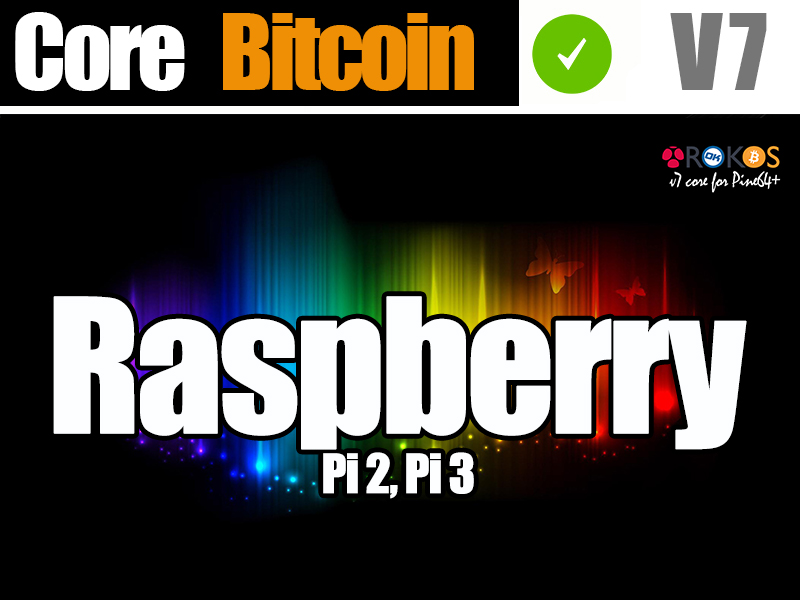
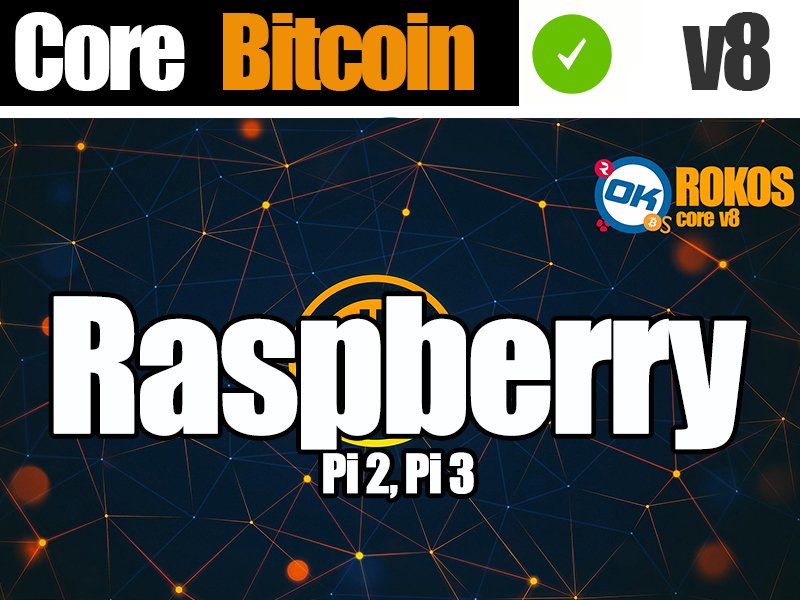
getting ready v8

diff --git a/core.html b/core.html
@@ -53,7 +53,7 @@
 						     <li class="dropdown">
                             <a href="#" class="dropdown-toggle " data-toggle="dropdown" data-hover="dropdown" data-delay="0" data-close-others="false">Core Info <b class=" icon-angle-down"></b></a>
                             <ul class="dropdown-menu">
-                                <li><a href="core.html">ROKOS Core version</a></li> 
+                                <li><a href="core.html">Latest Core version</a></li> 
 								 
                                 <li><a href="core-tech.html">Rokos Core Tech</a></li>
 								<!-- <li><a href="#">Tutorials</a></li> -->
@@ -92,19 +92,29 @@
 	<section id="content">
 	<div class="container">
 
-	<p>ROKOS v7 "Core" for Raspberry Pi 2, 3, and Pine64+ IoT Devices Released. Full Bitcoin OK Clients, nodes and much more. Faster, Easier, Stronger.<br /><br /></p>
-<div align="center"><img class="userimg" src="http://i.imgur.com/pNaI09x.png" alt="" border="0" /></div>
-<p>&nbsp;</p>
-<div align="center"><strong><span style="font-size: 15pt !important; line-height: 1.3em;">Just Download and Burn to Start your own OK and/or Bitcoin Full nodes and/or open your OpenBazaar store</span></strong><br /><br /><strong><span style="font-size: 15pt !important; line-height: 1.3em;">Cryptocurrency and the Internet of Things</span></strong><br /><strong>Core:</strong> Debian based OS with integrated <strong>Bitcoin OK</strong> Clients, Nodes and Open Bazaar server ready for use.</div>
-<p><br />We've seen new services selling "stake miners" or pi "fullnodes" for different amounts of bitcoin ranging from 200 USD to 982 USD, we support the new technology and uses for cryptocurrencies in the Raspberry Pi , Bananapi, Pine64+ and IoT environments, hence we came up with a <strong>Free</strong> solution for every IoT enthusiast, developer, user, service that want to use their IoT devices with Bitcoin and OK, or that would like to turn their Pi into a Staking device, It already integrates a fully functional Bitcoin Client and full node as well to provide the users with the best and easier Out of the Box experience, and to be the perfect toolbox for developers.<br /><br /></p>
-<div align="center"><span style="font-size: 14pt !important; line-height: 1.3em;"><strong>v7 "Core" Released</strong> </span></div>
-<p><br />The First OS image release that merges the full power of Raspberry Pi zero, 2, 3, Banana Pi PRO, Pine64+ &amp; IoT Devices with Bitcoin OK and Cryptocurrencies: <br />- <strong>ROKOS v7 "core"</strong> comes with integrated OK and Bitcoin Client / node and OpenBazaar server.<br /><br /></p>
-<div align="center"><img class="userimg" src="http://i.imgur.com/M3Voqgi.png" alt="" border="0" /><img class="userimg" src="http://i.imgur.com/Tyfl3cn.png" alt="" border="0" /><br /><img class="userimg" src="http://i.imgur.com/Us1P3pl.png" alt="" border="0" /><br /><br />Distribution aimed for everyone, from new IoT users to IoT Developers, Ease of use Out of the Box.<br /><strong>Download &amp; Burn, Ready for use.</strong><br /><br /></div>
-<p><br /><strong>Some of the ROKOS core features are: </strong><br /><strong>v7 "core" Release (Pine64+, Raspberry Pi 2, 3)</strong> <br />- Full burnable OS Compatible with the <a class="ul" href="https://www.raspberrypi.org">Raspberry Pi</a>, <a class="ul" href="https://www.pine64.org">Pine64+</a>, BananaPi and IoT devices.<br />- Full System / Programs Upgrade.<br />- Full Design Upgrade.<br />- Chrome/Firefox browser added. (depends on version)<br />- Autolog.<br />- Debian/Xubuntu/Linux based.<br />- Java Dev Tools.<br />- Easier to Use mod Update.<br />- Security and Optimization Update.<br />- Includes Qt and complete set of Dev tools (For developers)<br />- Works with other cryptocurrencies.<br />- 1024 mb swap mod.<br />- Updated Bitcoin client / node v0.13.1 with full functionality.<br />- Updated OKCash client / node v4.0.0.3 with full Stake functionality, private messages.<br />- Updated OpenBazaar server.<br />- Custom Login and Wallpapers.<br />- BTC and OK nodes at /usr/local/bin/<br />- Easy Clients / Nodes Upgrades.<br />- Custom OK-Scripts to ease the user experience.<br />- Direct access to the Clients Via: Task bar and Menu &gt; Blockchain.<br /><br /><strong>Requirements: </strong><br />ROKOS v7 "core" for Pine64+ :<br />- <a class="ul" href="https://www.pine64.org">Pine64+</a> - ready for download<br />- <a class="ul" href="https://www.raspberrypi.org">Raspberry Pi 2, 3.</a> - ready for download<br />- <a class="ul" href="http://www.lemaker.org/">Banana Pi</a> PRO - coming update<br /><br />- Min 16gb SD card and an External device (usb / hdd / ssd). To sync the BTC chain on the external device instead of the SD card, BTC chain alone is around 60gb.<br /><br /><strong>ROKOS constantly evolves and releases new Versions based on:</strong><br />- Security, Chain, Technology and Design updates.<br />- Ease of access and use for the final users.<br />- More Cryptocurrencies are integrated for an <strong>Out of the Box</strong> experience in a different version called ROKOS FLAVORS.<br />- More wallets, programs or features, based on users/communities/developers feedback, support and/or cross collaborations.<br /><br /></p>
-<div align="center"><strong>ROKOS v7 "core" for Pine64+ screen shots</strong><br /><img class="userimg" src="http://i.imgur.com/OrhPqYG.png" alt="" border="0" /></div>
-<br />
-<div align="center"><strong>ROKOS v7 "core" for Raspberry Pi 2, 3 screen shots</strong><br /><img class="userimg" src="http://i.imgur.com/RqniEgu.jpg" alt="" border="0" /></div>
 	
+<div align="center"><img class="userimg" src="img/rokos.png" alt="" border="0" /></div>
+<p>&nbsp;</p>
+<div align="center"><strong><span style="font-size: 15pt !important; line-height: 1.3em;">Just Download and Burn to Start your own OK and Bitcoin Full node</span></strong><br /><br />
+ <strong><span style="font-size: 15pt !important; line-height: 1.3em;">Cryptocurrency and the Internet of Things</span></strong><br />
+ <strong>Core:</strong> Debian based OS with integrated <strong>Bitcoin OK</strong> Clients, Nodes and Open Bazaar server ready for use.<br /><br />
+  <strong>ROKOS v8 "Core" </strong>for Raspberry Pi 2, 3, and IoT Devices. <br />Full Bitcoin OK Clients, nodes and much more. Faster, Easier, Stronger.</div>
+<p><br />We support the new technology and uses for cryptocurrencies in the Raspberry Pi , Bananapi, Pine64+ and IoT environments, hence we came up with a <strong>Free</strong> solution for every IoT enthusiast, developer, user, service that want to use their IoT devices with Bitcoin and OK, or that would like to turn their Pi into a Staking device, It already integrates a fully functional Bitcoin Client and full node as well to provide the users with the best and easier Out of the Box experience, and to be the perfect toolbox for developers.<br /><br /></p>
+<div align="center"><span style="font-size: 14pt !important; line-height: 1.3em;"><strong>v8 "Core"</strong> </span></div>
+<p><br />The First OS image release that merges the full power of Raspberry Pi zero, 2, 3, Banana Pi PRO, Pine64+ &amp; IoT Devices with Bitcoin OK and Cryptocurrencies: <br />
+- <strong>ROKOS v8 "core"</strong> comes with integrated OK and Bitcoin Client / node, OpenBazaar server, Dev tools, cgminer deps, etc.<br /><br /></p>
+<div align="center"><img class="userimg" src="img/raspberrypi.png" alt="" border="0" /><br /><br />
+Distribution aimed for everyone, from new IoT users to IoT Developers, Ease of use Out of the Box.<br />
+<strong>Download &amp; Burn, Ready for use.</strong><br /><br /></div>
+<br /><strong>Requirements: </strong><br />
+ROKOS v8 "core":<br />
+- <a class="ul" href="https://www.raspberrypi.org" target="_blank">Raspberry Pi 2, 3.</a> - ready for <a href="https://rokos.space/downloads.html">download</a><br />
+- <a class="ul" href="https://www.pine64.org" target="_blank">Pine64+</a> - coming update<br />
+- <a class="ul" href="http://www.lemaker.org/" target="_blank">Banana Pi PRO</a> - coming update<br /><br />
+- Min 16gb SD card and an External device (usb / hdd / ssd). To sync the BTC chain on the external device instead of the SD card, BTC chain alone is around 100gb.<br /><br /><br /></p>
+
+<div align="center"><strong>ROKOS v8 "core" for Raspberry Pi 2, 3 screen shots</strong><br /><img class="userimg" src="http://i.imgur.com/KzDvTDG.jpg" alt="" border="0" />
+<br /><br /><img class="userimg" src="http://i.imgur.com/5BkrGff.png" alt="" border="0" /></div>
 <p>&nbsp;</p>
 	</section>
 	<footer>
@@ -113,7 +123,7 @@
 			<div class="col-lg-3">
 				<div class="widget">
 					<h5 class="widgetheading">Join the OK Bitcoin community</h5>
-					<br><a href="https://discord.gg/grvpc8c"> <img alt="Logo" src="https://discordapp.com/api/guilds/213747404745211904/widget.png?style=banner2" width="250px"></a>
+					<br><a href="https://discord.io/bitcoin"> <img alt="Logo" src="https://discordapp.com/api/guilds/213747404745211904/widget.png?style=banner2" width="250px"></a>
 					
 				</div>
 			</div>

diff --git a/core-tech.html b/core-tech.html
@@ -53,7 +53,7 @@
 						<li class="dropdown">
                             <a href="#" class="dropdown-toggle " data-toggle="dropdown" data-hover="dropdown" data-delay="0" data-close-others="false">Core Info <b class=" icon-angle-down"></b></a>
                             <ul class="dropdown-menu">
-                                <li><a href="core.html">ROKOS Core version</a></li> 
+                                <li><a href="core.html">Latest Core version</a></li> 
 								 
                                 <li><a href="core-tech.html">Rokos Core Tech</a></li>
 								<!-- <li><a href="#">Tutorials</a></li> -->
@@ -90,7 +90,7 @@
 	</section>
 	<section id="content">
 	<center>
-	<table width="90%">
+	<table width="60%">
 	<tr><td width="20%">
 	<center>  <a href="http://bitcoin.org" target="new"> <img src="img/coins/bitcoin.jpg" alt=""  /><br /><b>Bitcoin</b></center>
 	</td><td width="20%">
@@ -99,8 +99,6 @@
 	<center> <a href="https://openbazaar.org/" target="new"> <img src="img/coins/openbazaar.png" alt="" /><br /><b>OpenBazaar</b></center>
 	</td><td width="20%">
 	<center> <a href="http://debian.org/" target="new"> <img src="img/coins/debian.png" alt="" /><br /><b>Debian</b></center>
-	</td><td width="20%">
-	<center> <a href="https://nodejs.org/" target="new"> <img src="img/coins/nodejs.png" alt="" /><br /><b>Node js</b></center>
 	</td></tr><tr height="30px"></tr><tr><td width="20%">
 	<center> <a href="http://raspberrypi.org/" target="new"> <img src="img/coins/raspberrypi.png" alt="" /><br /><b>Raspberry Pi</b></center>
 	</td><td width="20%">
@@ -109,9 +107,12 @@
 	<center> <a href="https://en.wikipedia.org/wiki/Banana_Pi#Banana_Pi_Pro" target="new"> <img src="img/coins/bananapi.png" alt="" /><br /><b>Banana Pi Pro</b></center>
 	 </td><td width="20%">
 	<center> <a href="http://www.linux.org/" target="new"> <img src="img/coins/linux.png" alt="" /><br /><b>Linux</b></center>
-	</td><td width="20%">
-	<center> <a href="http://xubuntu.org/" target="new"> <img src="img/coins/xubuntu.png" alt="" /><br /><b>xubuntu</b></center>
 	</td></tr><tr height="30px"></tr><tr><td width="20%">
+	<center> <a href="https://nodejs.org/" target="new"> <img src="img/coins/nodejs.png" alt="" /><br /><b>Node js</b></center>
+	</td>
+	<td width="20%">
+	<center> <a href="http://xubuntu.org/" target="new"> <img src="img/coins/xubuntu.png" alt="" /><br /><b>xubuntu</b></center>
+	</td>
 	<!-- <center> <a href="http://metalmusiccoin.pw/" target="new">  <img src="img/coins/metalcoin.png" alt="" /><br /><b>Metalcoin</b></center>
 	</td><td width="20%">
 	<center> <a href="https://bitcointalk.org/index.php?topic=1366963.0" target="new">  <img src="img/coins/mojo.png" alt="" /><br /><b>Mojo</b></center>
@@ -131,12 +132,40 @@
 	<center> <a href="http://www.expanse.tech/" target="new"> <img src="img/coins/expanse.png" alt="" /><br /><b>Expanse</b>  </center>
 	</td><td width="20%"> -->
 	<center>    </center>
-	</td></tr></table>
+	</tr></table>
+	<table width="55%">
+	<tr><td>
+	<p><br /><strong>Some of the ROKOS core v8 features are: </strong><br />
+	 <br />
+	- Updated <strong>Bitcoin</strong> client / node <strong>v0.14.0</strong> with full functionality.<br />
+	- Updated <strong>OKCash</strong> client / node <strong>v4.0.0.4</strong> with full functionality.<br />
+	- Updated <strong>OpenBazaar</strong> server.<br />
+	- Full burnable OS Compatible with the <a class="ul" href="https://www.raspberrypi.org">Raspberry Pi</a>, <a class="ul" href="https://www.pine64.org">Pine64+</a>, BananaPi and IoT devices.<br />
+	- Full System / Programs Upgrade.<br />
+	- Full Design Upgrade.<br />
+	- Chrome/Firefox browser added. (depends on version)<br />
+	- Autolog.<br />
+	- Debian/Xubuntu/Ubuntu/Raspbian/Linux based. (depends on version)<br />
+	- Java Dev Tools.<br />
+	- Easier to Use mod Update.<br />
+	- Security and Optimization Update.<br />
+	- CGMiner ready. (dependencies included for compilation)<br />
+	- Includes Qt and complete set of tools (For developers)<br />
+	- Works with other cryptocurrencies.<br />
+	- 1024 mb swap mod.<br />
+	- Custom Login and Wallpapers.<br />
+	- BTC and OK nodes at /usr/local/bin/<br />
+	- Easy Clients / Nodes Upgrades.<br />
+	- Custom OK-Scripts to ease the user experience.<br />
+	- Direct access to the Clients Via: Task bar and Menu &gt; Blockchain.<br />
+	</p></td></tr><tr><td>
+	<strong>ROKOS constantly evolves and releases new Versions based on:</strong><br />
+	- Security, Chain, Technology and Design updates.<br />
+	- Ease of access and use for the final users.<br />
+	- More Cryptocurrencies are integrated for an <strong>Out of the Box</strong> experience in a different version called ROKOS <a href="https://rokos-flavors.space" target="_blank">FLAVORS</a>.<br />
+	- More wallets, programs or features, based on users/communities/developers feedback, support and/or cross collaborations.</td></tr></table></center>
 	
 	
-	
-	
-	</center>
 	</section>
 	<footer>
 	<div class="container">
@@ -144,7 +173,7 @@
 			<div class="col-lg-3">
 				<div class="widget">
 					<h5 class="widgetheading">Join the OK Bitcoin community</h5>
-					<br><a href="https://discord.gg/grvpc8c"> <img alt="Logo" src="https://discordapp.com/api/guilds/213747404745211904/widget.png?style=banner2" width="250px"></a>
+					<br><a href="https://discord.io/bitcoin"> <img alt="Logo" src="https://discordapp.com/api/guilds/213747404745211904/widget.png?style=banner2" width="250px"></a>
 					
 				</div>
 			</div>

diff --git a/support.html b/support.html
@@ -53,7 +53,7 @@
 						     <li class="dropdown">
                             <a href="#" class="dropdown-toggle " data-toggle="dropdown" data-hover="dropdown" data-delay="0" data-close-others="false">Core Info <b class=" icon-angle-down"></b></a>
                             <ul class="dropdown-menu">
-                                <li><a href="core.html">ROKOS Core version</a></li> 
+                                <li><a href="core.html">Latest Core version</a></li> 
 								 
                                 <li><a href="core-tech.html">Rokos Core Tech</a></li>
 								<!-- <li><a href="#">Tutorials</a></li> -->
@@ -92,13 +92,21 @@
 	
 	<p>&nbsp;</p>
 	<center><strong>If you need Support you can join the OK Bitcoin communications server at Discord: <br /><br />
-	<a  href="https://discord.gg/grvpc8c">Click here to join the Community!</a>
+	<a  href="https://discord.io/bitcoin">Click here to join the Community!</a>
 	<br /><br />
 	Same way you can raise an issue, give feedback or read the Tutorials at: <br /><br />
 	<a  href="https://github.com/BitcoinFullnode/ROKOS-OK-Bitcoin-Fullnode">Official ROKOS Github</a></strong></center>
 	<br /><div align="center">***********************</div>
     <br />
-		<div align="center"><strong>ROKOS is Released for Free to support Bitcoin OK and the crypto environment adoption</strong><br />If you find this work valuable or if it helped your project and You would like to support feel free to share your donations at<br /><br /><strong>BTC</strong>&nbsp; 15VrDkat5vD4FfycRk3E4e7EgqftzK6tm8<br /><strong>OK</strong>&nbsp; PWZg5F7NurKDNGdckRpQgmShEQhEHmF5W5<br /><br /><br /><strong>Want your Cryptocurrency Client and node included in the next ROKOS "Flavors" release update?</strong><br /><br />1.1 BTC (or OKcash Equivalent) donation to support development<br />Requirement to get added to every future "Flavors" upgrades/releases. (Permanently added to upcoming flavors releases)<br /><br />0.50 BTC (or OKcash Equivalent) donation to support development<br />Requirement to get added only to next "Flavors" upgrade/release. (1 flavors release)<br /><br />1.6 BTC (or OKcash Equivalent) donation to support development <br />Requirement to get an Exclusive version release for your cryptocurrency with your custom cryptocurrency wallpaper and version name.<br /><br />Contact: Oktoshi over <a href="mailto:devteam@okcash.co">devteam[at]okcash.co</a><br /><br />*Donation claims can be done with Bitcoin or Okcash equivalent.<br />*Abandoned coins with non responsive devs get removed from the OS.</div>
+		<div align="center"><strong>ROKOS is Released for Free to support Bitcoin OK and the crypto environment adoption</strong><br />
+		If you find this work valuable or if it helped your project and You would like to support feel free to share your donations at<br /><br />
+		<strong>BTC</strong>&nbsp; 15VrDkat5vD4FfycRk3E4e7EgqftzK6tm8<br /><strong>OK</strong>&nbsp; PWZg5F7NurKDNGdckRpQgmShEQhEHmF5W5<br /><br /><br />
+		<strong>Want your Cryptocurrency Client and node included in the next ROKOS "Flavors" release update?</strong><br /><br />
+		1 BTC (or OKcash Equivalent) donation to support development<br />Requirement to get added to every future "<a href="https://rokos-flavors.space/" target="_blank">Flavors</a>" upgrades/releases. (Permanently added to upcoming flavors releases)<br />
+		<br />0.50 BTC (or OKcash Equivalent) donation to support development<br />Requirement to get added only to next "Flavors" upgrade/release. (1 flavors release)<br /><br />
+		1.5 BTC (or OKcash Equivalent) donation to support development <br />
+		Requirement to get an Exclusive version release for your cryptocurrency with your custom cryptocurrency wallpaper and version name.<br />
+		<br />Contact: Oktoshi over <a href="mailto:devteam@okcash.co">devteam[at]okcash.co</a><br /><br />*Donation claims can be done with Bitcoin or Okcash equivalent.<br />*Abandoned coins with non responsive devs get removed from the OS.</div>
 <p>&nbsp;</p>
 	<div align="center">***********************</div>
 <p>&nbsp;</p>
@@ -109,7 +117,7 @@
 			<div class="col-lg-3">
 				<div class="widget">
 					<h5 class="widgetheading">Join the OK Bitcoin community</h5>
-					<br><a href="https://discord.gg/grvpc8c"> <img alt="Logo" src="https://discordapp.com/api/guilds/213747404745211904/widget.png?style=banner2" width="250px"></a>
+					<br><a href="https://discord.io/bitcoin"> <img alt="Logo" src="https://discordapp.com/api/guilds/213747404745211904/widget.png?style=banner2" width="250px"></a>
 					
 				</div>
 			</div>

diff --git a/downloads.html b/downloads.html
@@ -53,7 +53,7 @@
 						     <li class="dropdown">
                             <a href="#" class="dropdown-toggle " data-toggle="dropdown" data-hover="dropdown" data-delay="0" data-close-others="false">Core Info <b class=" icon-angle-down"></b></a>
                             <ul class="dropdown-menu">
-                                <li><a href="core.html">ROKOS Core version</a></li> 
+                                <li><a href="core.html">Latest Core version</a></li> 
 								 
                                 <li><a href="core-tech.html">Rokos Core Tech</a></li>
 								<!-- <li><a href="#">Tutorials</a></li> -->
@@ -105,12 +105,12 @@
 						<!-- Item Project and Filter Name -->
 						<li class="item-thumbs col-lg-3 design" data-id="id-0" data-type="core">
 						<!-- Fancybox - Gallery Enabled - Title - Full Image -->
-						<a class="hover-wrap fancybox" data-fancybox-group="gallery" title="Core Raspberry Pi 2, 3" href="http://bit.ly/rokos7coreRaspberry23" target="_blank">
+						<a class="hover-wrap fancybox" data-fancybox-group="gallery" title="Coming soon" href="#">
 						<span class="overlay-img"></span>
 						<span class="overlay-img-thumb font-icon-plus"></span>
 						</a>
 						<!-- Thumb Image and Description -->
-						<img src="img/works/5.jpg" alt="ROKOS core Raspberry Pi 2, 3.">
+						<img src="img/works/5.jpg" alt="ROKOS core v8 Raspberry Pi 2, 3.">
 						</li>
 						<!-- End Item Project -->
 						<!-- Item Project and Filter Name -->
@@ -159,7 +159,7 @@
 			<div class="col-lg-3">
 				<div class="widget">
 					<h5 class="widgetheading">Join the OK Bitcoin community</h5>
-					<br><a href="https://discord.gg/grvpc8c"> <img alt="Logo" src="https://discordapp.com/api/guilds/213747404745211904/widget.png?style=banner2" width="250px"></a>
+					<br><a href="https://discord.io/bitcoin"> <img alt="Logo" src="https://discordapp.com/api/guilds/213747404745211904/widget.png?style=banner2" width="250px"></a>
 					
 				</div>
 			</div>

diff --git a/index.html b/index.html
@@ -54,7 +54,7 @@
 						     <li class="dropdown">
                             <a href="#" class="dropdown-toggle " data-toggle="dropdown" data-hover="dropdown" data-delay="0" data-close-others="false">Core Info <b class=" icon-angle-down"></b></a>
                             <ul class="dropdown-menu">
-                                <li><a href="core.html">ROKOS Core version</a></li> 
+                                <li><a href="core.html">Latest Core version</a></li> 
 								 
                                 <li><a href="core-tech.html">Rokos Core Tech</a></li>
 								<!-- <li><a href="#">Tutorials</a></li> -->
@@ -208,7 +208,7 @@
 									
 							</div>
 							<div class="box-bottom">
-								<a href="https://discord.gg/grvpc8c" target="_blank">Share your Feedback</a>
+								<a href="https://discord.io/bitcoin" target="_blank">Share your Feedback</a>
 							</div>
 						</div>
 					</div>
@@ -290,7 +290,7 @@
 			<div class="col-lg-3">
 				<div class="widget">
 					<h5 class="widgetheading">Join the OK Bitcoin community</h5>
-					<br><a href="https://discord.gg/grvpc8c"> <img alt="Logo" src="https://discordapp.com/api/guilds/213747404745211904/widget.png?style=banner2" width="250px"></a>
+					<br><a href="https://discord.io/bitcoin"> <img alt="Logo" src="https://discordapp.com/api/guilds/213747404745211904/widget.png?style=banner2" width="250px"></a>
 					
 				</div>
 			</div>

diff --git a/burn_sdcard.html b/burn_sdcard.html
@@ -53,7 +53,7 @@
 						     <li class="dropdown">
                             <a href="#" class="dropdown-toggle " data-toggle="dropdown" data-hover="dropdown" data-delay="0" data-close-others="false">Core Info <b class=" icon-angle-down"></b></a>
                             <ul class="dropdown-menu">
-                                <li><a href="core.html">ROKOS Core version</a></li> 
+                                <li><a href="core.html">Latest Core version</a></li> 
 								 
                                 <li><a href="core-tech.html">Rokos Core Tech</a></li>
 								<!-- <li><a href="#">Tutorials</a></li> -->
@@ -105,7 +105,7 @@
 			<div class="col-lg-3">
 				<div class="widget">
 					<h5 class="widgetheading">Join the OK Bitcoin community</h5>
-					<br><a href="https://discord.gg/grvpc8c"> <img alt="Logo" src="https://discordapp.com/api/guilds/213747404745211904/widget.png?style=banner2" width="250px"></a>
+					<br><a href="https://discord.io/bitcoin"> <img alt="Logo" src="https://discordapp.com/api/guilds/213747404745211904/widget.png?style=banner2" width="250px"></a>
 					
 				</div>
 			</div>

diff --git a/rokos_core.html b/rokos_core.html
@@ -53,7 +53,7 @@
 						     <li class="dropdown">
                             <a href="#" class="dropdown-toggle " data-toggle="dropdown" data-hover="dropdown" data-delay="0" data-close-others="false">Core Info <b class=" icon-angle-down"></b></a>
                             <ul class="dropdown-menu">
-                                <li><a href="core.html">ROKOS Core version</a></li> 
+                                <li><a href="core.html">Latest Core version</a></li> 
 								 
                                 <li><a href="core-tech.html">Rokos Core Tech</a></li>
 								<!-- <li><a href="#">Tutorials</a></li> -->
@@ -103,7 +103,7 @@
 			<div class="col-lg-3">
 				<div class="widget">
 					<h5 class="widgetheading">Join the OK Bitcoin community</h5>
-					<br><a href="https://discord.gg/grvpc8c"> <img alt="Logo" src="https://discordapp.com/api/guilds/213747404745211904/widget.png?style=banner2" width="250px"></a>
+					<br><a href="https://discord.io/bitcoin"> <img alt="Logo" src="https://discordapp.com/api/guilds/213747404745211904/widget.png?style=banner2" width="250px"></a>
 					
 				</div>
 			</div>

diff --git a/rokos_corepi.html b/rokos_corepi.html
@@ -53,7 +53,7 @@
 						     <li class="dropdown">
                             <a href="#" class="dropdown-toggle " data-toggle="dropdown" data-hover="dropdown" data-delay="0" data-close-others="false">Core Info <b class=" icon-angle-down"></b></a>
                             <ul class="dropdown-menu">
-                                <li><a href="core.html">ROKOS Core version</a></li> 
+                                <li><a href="core.html">Latest Core version</a></li> 
 								 
                                 <li><a href="core-tech.html">Rokos Core Tech</a></li>
 								<!-- <li><a href="#">Tutorials</a></li> -->
@@ -103,7 +103,7 @@
 			<div class="col-lg-3">
 				<div class="widget">
 					<h5 class="widgetheading">Join the OK Bitcoin community</h5>
-					<br><a href="https://discord.gg/grvpc8c"> <img alt="Logo" src="https://discordapp.com/api/guilds/213747404745211904/widget.png?style=banner2" width="250px"></a>
+					<br><a href="https://discord.io/bitcoin"> <img alt="Logo" src="https://discordapp.com/api/guilds/213747404745211904/widget.png?style=banner2" width="250px"></a>
 					
 				</div>
 			</div>

diff --git a/rokos_flavors.html b/rokos_flavors.html
@@ -53,7 +53,7 @@
 						<li class="dropdown">
                             <a href="#" class="dropdown-toggle " data-toggle="dropdown" data-hover="dropdown" data-delay="0" data-close-others="false">Core Info <b class=" icon-angle-down"></b></a>
                             <ul class="dropdown-menu">
-                                <li><a href="core.html">ROKOS Core version</a></li> 
+                                <li><a href="core.html">Latest Core version</a></li> 
 								 
                                 <li><a href="core-tech.html">Rokos Core Tech</a></li>
 								<!-- <li><a href="#">Tutorials</a></li> -->
@@ -117,7 +117,7 @@
 			<div class="col-lg-3">
 				<div class="widget">
 					<h5 class="widgetheading">Join the OK Bitcoin community</h5>
-					<br><a href="https://discord.gg/grvpc8c"> <img alt="Logo" src="https://discordapp.com/api/guilds/213747404745211904/widget.png?style=banner2" width="250px"></a>
+					<br><a href="https://discord.io/bitcoin"> <img alt="Logo" src="https://discordapp.com/api/guilds/213747404745211904/widget.png?style=banner2" width="250px"></a>
 					
 				</div>
 			</div>

diff --git a/README.md b/README.md
@@ -30,6 +30,6 @@ http://letstalkpayments.com/fintech-at-ces-mastercard-coin-rokos-samsung-and-sof
 
 #Community and Live Support
 
-<a href="https://discord.gg/grvpc8c">
+<a href="https://discord.io/bitcoin">
     <img alt="Logo" src="https://discordapp.com/api/guilds/213747404745211904/widget.png?style=banner2">
   </a>
